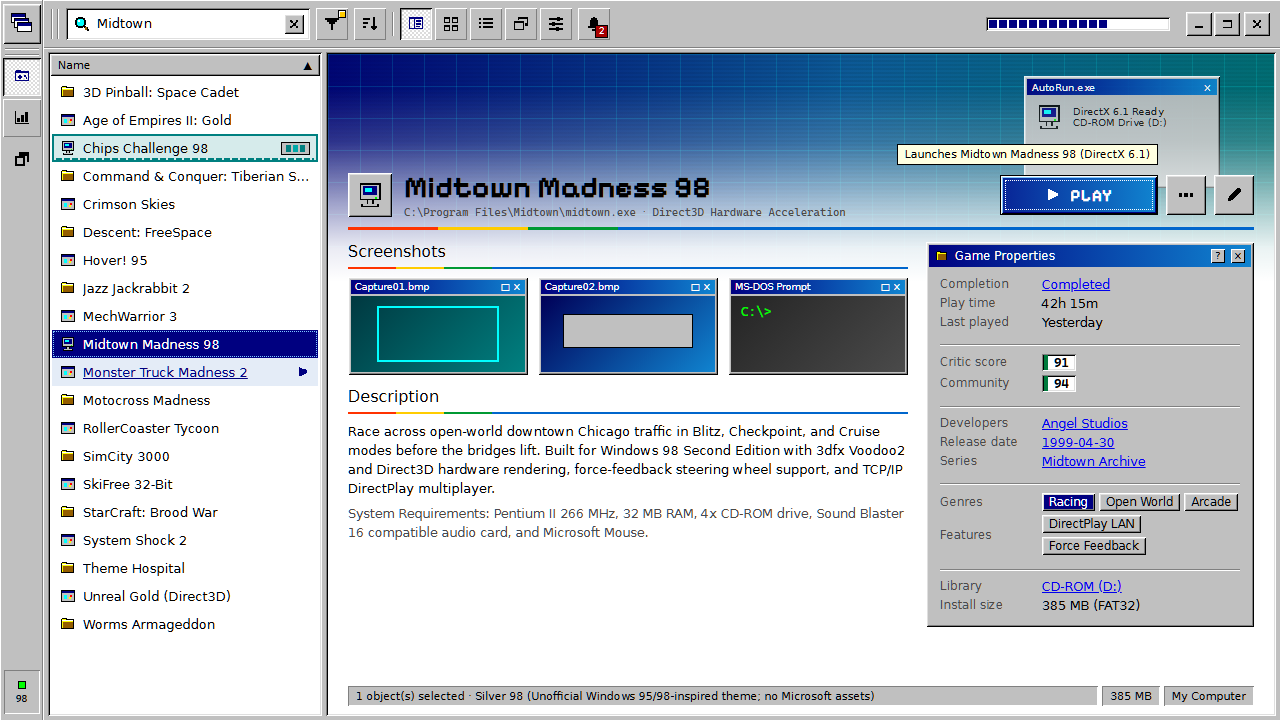
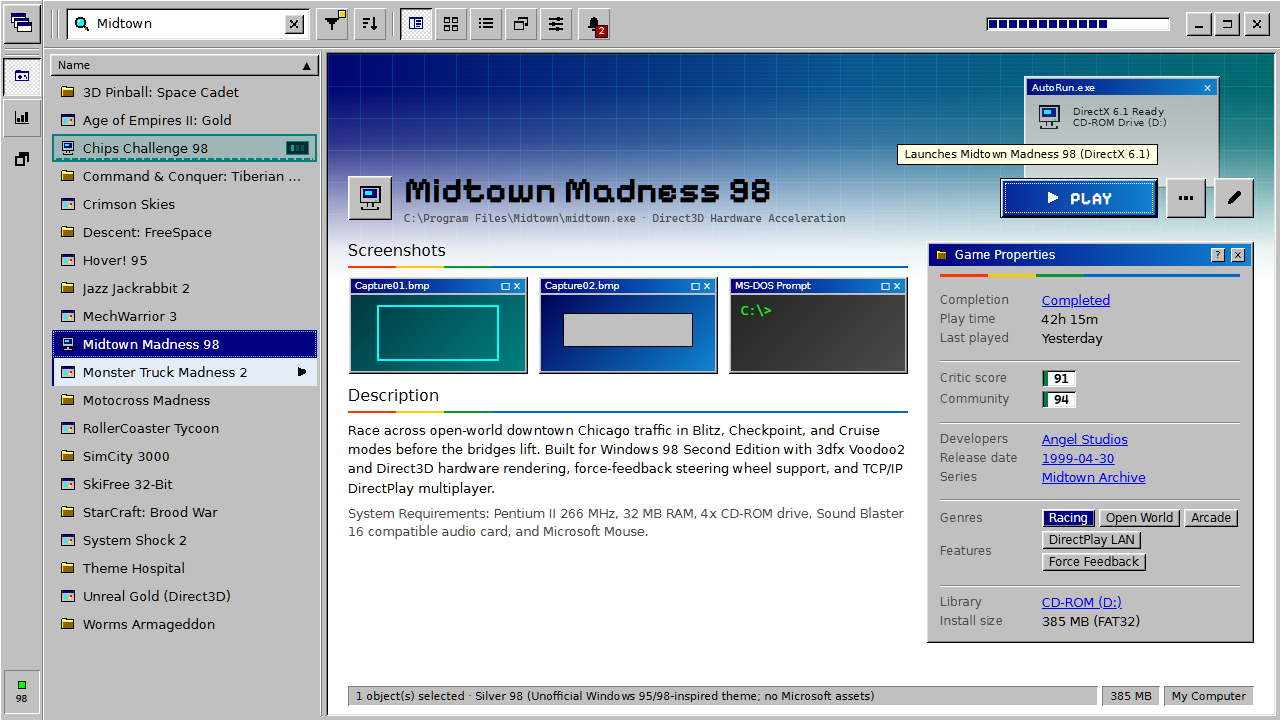
Release Silver 98 0.1.0

Changed region(s): [[0.0312, 0.0611, 1.0, 1.0], [0.4375, 0.4889, 0.6875, 0.5194]]

diff --git a/src/themes/Silver98/src/Views/GridViewGameOverview.xaml b/src/themes/Silver98/src/Views/GridViewGameOverview.xaml
@@ -124,7 +124,7 @@
                                                 </Button>
                                                 <Image x:Name="PART_ImageIcon" MaxWidth="44" MaxHeight="44" Margin="0,0,14,0" DockPanel.Dock="Left" VerticalAlignment="Center" />
                                                 <StackPanel VerticalAlignment="Center">
-                                                    <TextBlock x:Name="PART_TextDisplayName" FontFamily="{DynamicResource HeadingFontFamily}" FontSize="{DynamicResource FontSizeLargest}"
+                                                    <TextBlock x:Name="PART_TextDisplayName" FontFamily="{DynamicResource HeadingFontFamily}" FontSize="36"
                                                                FontWeight="Bold" TextWrapping="Wrap">
                                                         <TextBlock.Style>
                                                             <Style TargetType="TextBlock" BasedOn="{StaticResource BaseTextBlockStyle}">
@@ -137,20 +137,6 @@
                                                             </Style>
                                                         </TextBlock.Style>
                                                     </TextBlock>
-                                                    <Control Template="{DynamicResource DividerTemplate}" Margin="0,5,0,0" Focusable="False" IsHitTestVisible="False">
-                                                        <Control.Style>
-                                                            <Style TargetType="Control">
-                                                                <Style.Triggers>
-                                                                    <DataTrigger Binding="{Binding Text, ElementName=PART_TextDisplayName}" Value="">
-                                                                        <Setter Property="Visibility" Value="Collapsed" />
-                                                                    </DataTrigger>
-                                                                    <DataTrigger Binding="{Binding Text, ElementName=PART_TextDisplayName}" Value="{x:Null}">
-                                                                        <Setter Property="Visibility" Value="Collapsed" />
-                                                                    </DataTrigger>
-                                                                </Style.Triggers>
-                                                            </Style>
-                                                        </Control.Style>
-                                                    </Control>
                                                 </StackPanel>
                                             </DockPanel>
                                             <StackPanel Orientation="Horizontal" Margin="0,14,0,0">
@@ -203,7 +189,7 @@
 
                                                             <!-- Sunken White Property Well -->
                                                             <Grid>
-                                                                <Border Background="{DynamicResource InputBackgroundBrush}" Padding="14,12,14,12">
+                                                                <Border Background="{DynamicResource LocalFaceBrush}" Padding="14,12,14,12">
                                                                     <StackPanel Tag="{DynamicResource GridDetailsPaneWidth}" HorizontalAlignment="Stretch" x:Name="GridMetadataContent">
 <StackPanel.Style><Style TargetType="StackPanel"><Setter Property="Width" Value="{DynamicResource GridDetailsPaneWidth}" /><Setter Property="MaxWidth" Value="{DynamicResource GridDetailsPaneWidth}" /><Style.Triggers><DataTrigger Binding="{Binding Tag, ElementName=GridOverviewBody}" Value="True"><Setter Property="Width" Value="NaN" /><Setter Property="MaxWidth" Value="Infinity" /></DataTrigger><DataTrigger Binding="{Binding Tag, ElementName=GridMetadataColumn}" Value="Center"><Setter Property="Width" Value="NaN" /><Setter Property="MaxWidth" Value="Infinity" /></DataTrigger><DataTrigger Binding="{Binding Tag, ElementName=GridMetadataColumn}" Value="Stretch"><Setter Property="Width" Value="NaN" /><Setter Property="MaxWidth" Value="Infinity" /></DataTrigger></Style.Triggers></Style></StackPanel.Style>
                                                                         <Control Template="{DynamicResource DividerTemplate}" Margin="0,0,0,10" Focusable="False" />

diff --git a/src/themes/Silver98/art/preview-details.html b/src/themes/Silver98/art/preview-details.html
@@ -353,16 +353,13 @@
     background: var(--w98-face);
   }
 
-  /* === DETAILS GAME LIST (Left Sunken 3D White Explorer Tree/List Well) === */
+  /* === DETAILS GAME LIST (Left #C0C0C0 Silver Face Explorer List over ContentBackgroundBrush) === */
   .game-list-frame {
     width: 274px;
     flex: none;
-    background: var(--w98-window);
-    box-shadow:
-      inset 1px 1px 0 var(--w98-bevel-shadow),
-      inset -1px -1px 0 var(--w98-bevel-highlight),
-      inset 2px 2px 0 var(--w98-bevel-dark),
-      inset -2px -2px 0 var(--w98-bevel-light);
+    background: var(--w98-face);
+    border-right: 1px solid var(--w98-bevel-shadow);
+    box-shadow: inset -1px 0 0 var(--w98-bevel-highlight);
     display: flex;
     flex-direction: column;
     padding: 2px;
@@ -413,16 +410,24 @@
     overflow: hidden;
     text-overflow: ellipsis;
   }
-  /* Hovered row: hot-track pale blue wash + underline */
+  /* Hovered row: hot-track pale blue wash + 2px Navy left tick, black text (DetailsViewItemStyle.xaml) */
   .game-row.hover {
     background: var(--w98-row-hover);
-    color: var(--w98-navy);
-    text-decoration: underline;
+    color: var(--w98-text);
+  }
+  .game-row.hover::before {
+    content: "";
+    position: absolute;
+    left: 0;
+    top: 0;
+    bottom: 0;
+    width: 2px;
+    background: var(--w98-navy);
   }
   .row-hover-play {
     width: 14px;
     height: 14px;
-    color: var(--w98-navy);
+    color: var(--w98-text);
   }
   /* Selected row: Classic Windows 95/98 var(--w98-navy) Navy Selection Bar + 1px White Dotted Focus Box */
   .game-row.selected {
@@ -456,17 +461,18 @@
     display: flex;
     align-items: center;
     gap: 2px;
-    padding: 2px 4px;
-    background: var(--w98-face);
-    border: 1px solid var(--w98-bevel-dark);
+    padding: 3px 4px;
+    background: var(--w98-teal-scrim);
+    border: 1px solid var(--w98-teal);
   }
   .running-pips i {
-    width: 5px;
-    height: 7px;
-    background: var(--w98-teal);
+    width: 3px;
+    height: 6px;
+    background: var(--w98-teal-hi);
+    opacity: 0.3;
     display: block;
   }
-  .running-pips i.hi { background: var(--w98-teal-hi); }
+  .running-pips i.hi { opacity: 1; }
 
   /* === GAME PAGE (Right Sunken 3D Explorer 4.0 Web View Document Pane) === */
   .game-page {
@@ -602,7 +608,7 @@
   }
   .game-title {
     font-family: "Pixelify Sans", "Tahoma", "Segoe UI";
-    font-size: 30px;
+    font-size: 36px;
     font-weight: 700;
     line-height: 1.05;
     color: var(--w98-text);
@@ -1063,7 +1069,7 @@
           <div class="game-row running">
             <svg class="row-ico" viewBox="0 0 16 16"><use href="#ico-computer"/></svg>
             <span class="game-row-title">Chips Challenge 98</span>
-            <span class="running-pips"><i></i><i class="hi"></i><i></i></span>
+            <span class="running-pips"><i class="hi"></i><i></i><i></i></span>
             <span class="running-foot"></span>
           </div>
           <div class="game-row"><svg class="row-ico" viewBox="0 0 16 16"><use href="#ico-folder"/></svg><span class="game-row-title">Command &amp; Conquer: Tiberian Sun</span></div>
@@ -1129,12 +1135,7 @@
             </div>
           </div>
 
-          <!-- Classic Windows 98 Explorer 4.0 Web View 4-Color Divider Bar -->
-          <div class="webview-4color-bar">
-            <span class="c-red"></span><span class="c-yel"></span><span class="c-grn"></span><span class="c-blu"></span>
-          </div>
-
-          <div class="body-cols">
+          <div class="body-cols" style="margin-top: 8px;">
             <div class="left-col">
               <div class="screens-head">Screenshots</div>
               <div class="screens-head-rule"><span class="c1"></span><span class="c2"></span><span class="c3"></span><span class="c4"></span></div>
@@ -1159,6 +1160,7 @@
                   <span class="meta-head-btn">×</span>
                 </div>
                 <div class="meta-body">
+                  <div class="webview-4color-bar" style="margin-bottom: 8px;"><span class="c-red" style="width: 48px;"></span><span class="c-yel" style="width: 48px;"></span><span class="c-grn" style="width: 48px;"></span><span class="c-blu"></span></div>
                   <div class="meta-group">
                     <div class="meta-row"><span class="meta-label">Completion</span><span class="meta-link">Completed</span></div>
                     <div class="meta-row"><span class="meta-label">Play time</span><span class="meta-val">42h 15m</span></div>

diff --git a/src/themes/Silver98/src/Views/DetailsViewGameOverview.xaml b/src/themes/Silver98/src/Views/DetailsViewGameOverview.xaml
@@ -108,7 +108,7 @@
                                     <DockPanel>
                                         <Image x:Name="PART_ImageIcon" MaxWidth="48" MaxHeight="48" Margin="0,0,14,0" DockPanel.Dock="Left" VerticalAlignment="Center" />
                                         <StackPanel VerticalAlignment="Center">
-                                            <TextBlock x:Name="PART_TextDisplayName" FontFamily="{DynamicResource HeadingFontFamily}" FontSize="{DynamicResource FontSizeLargest}"
+                                            <TextBlock x:Name="PART_TextDisplayName" FontFamily="{DynamicResource HeadingFontFamily}" FontSize="36"
                                                        FontWeight="Bold" TextWrapping="Wrap">
                                                 <TextBlock.Style>
                                                     <Style TargetType="TextBlock" BasedOn="{StaticResource BaseTextBlockStyle}">
@@ -121,20 +121,6 @@
                                                     </Style>
                                                 </TextBlock.Style>
                                             </TextBlock>
-                                            <Control Template="{DynamicResource DividerTemplate}" Margin="0,5,0,0" Focusable="False" IsHitTestVisible="False">
-                                                <Control.Style>
-                                                    <Style TargetType="Control">
-                                                        <Style.Triggers>
-                                                            <DataTrigger Binding="{Binding Text, ElementName=PART_TextDisplayName}" Value="">
-                                                                <Setter Property="Visibility" Value="Collapsed" />
-                                                            </DataTrigger>
-                                                            <DataTrigger Binding="{Binding Text, ElementName=PART_TextDisplayName}" Value="{x:Null}">
-                                                                <Setter Property="Visibility" Value="Collapsed" />
-                                                            </DataTrigger>
-                                                        </Style.Triggers>
-                                                    </Style>
-                                                </Control.Style>
-                                            </Control>
                                         </StackPanel>
                                     </DockPanel>
                                 </DockPanel>
@@ -174,7 +160,7 @@
 
                                                     <!-- Sunken White Property Well -->
                                                     <Grid>
-                                                        <Border Background="{DynamicResource InputBackgroundBrush}" Padding="14,12,14,12">
+                                                        <Border Background="{DynamicResource LocalFaceBrush}" Padding="14,12,14,12">
                                                             <StackPanel Tag="{DynamicResource GameDetailsPaneWidth}" HorizontalAlignment="Stretch" x:Name="DetailsMetadataContent">
 <StackPanel.Style><Style TargetType="StackPanel"><Setter Property="Width" Value="{DynamicResource GameDetailsPaneWidth}" /><Setter Property="MaxWidth" Value="{DynamicResource GameDetailsPaneWidth}" /><Style.Triggers><DataTrigger Binding="{Binding Tag, ElementName=DetailsOverviewBody}" Value="True"><Setter Property="Width" Value="NaN" /><Setter Property="MaxWidth" Value="Infinity" /></DataTrigger><DataTrigger Binding="{Binding Tag, ElementName=DetailsMetadataColumn}" Value="Center"><Setter Property="Width" Value="NaN" /><Setter Property="MaxWidth" Value="Infinity" /></DataTrigger><DataTrigger Binding="{Binding Tag, ElementName=DetailsMetadataColumn}" Value="Stretch"><Setter Property="Width" Value="NaN" /><Setter Property="MaxWidth" Value="Infinity" /></DataTrigger></Style.Triggers></Style></StackPanel.Style>
                                                                 <Control Template="{DynamicResource DividerTemplate}" Margin="0,0,0,10" Focusable="False" />

diff --git a/src/themes/Silver98/src/Views/Library.xaml b/src/themes/Silver98/src/Views/Library.xaml
@@ -47,7 +47,7 @@
                                     </Style.Triggers>
                                 </Style>
                             </Grid.Style>
-                            <Border x:Name="WindowArtSwatch" Background="{DynamicResource ContentBackgroundBrush}" Visibility="Collapsed" />
+                            <Border x:Name="WindowArtSwatch" Background="{DynamicResource GameOverviewBackgroundBrush}" Visibility="Collapsed" />
                             <Grid Grid.Row="0" Grid.Column="0" Grid.RowSpan="2" VerticalAlignment="Top" IsHitTestVisible="False">
                                 <FadeImage x:Name="PART_ImageBackground" VerticalAlignment="Top" HorizontalAlignment="Center" />
                                 <Rectangle>

diff --git a/src/themes/Silver98/src/Constants.template.xaml b/src/themes/Silver98/src/Constants.template.xaml
@@ -85,7 +85,7 @@
     <!-- Shell, Chrome & Game Page Brushes -->
     <SolidColorBrush x:Key="ShellBackgroundBrush" Color="{{w98-face}}" />
     <SolidColorBrush x:Key="TopPanelBackgroundBrush" Color="{{w98-face}}" />
-    <SolidColorBrush x:Key="ContentBackgroundBrush" Color="{{w98-window}}" />
+    <SolidColorBrush x:Key="ContentBackgroundBrush" Color="{{w98-face}}" />
     <SolidColorBrush x:Key="GameOverviewBackgroundBrush" Color="{{w98-window}}" />
     <!-- Banner darkening color: classic Win32 #C0C0C0 silver face so darkened banner blends into the shell -->
     <SolidColorBrush x:Key="GameBannerTintBrush" Color="{{w98-face}}" />

diff --git a/src/themes/Silver98/art/preview-settings.html b/src/themes/Silver98/art/preview-settings.html
@@ -207,7 +207,6 @@
   .tree-row.hover {
     background: var(--w98-row-hover);
     color: var(--w98-navy);
-    text-decoration: underline;
   }
   .tree-row.selected {
     background: var(--w98-navy);

diff --git a/src/themes/Silver98/README.md b/src/themes/Silver98/README.md
@@ -6,7 +6,7 @@
 
 **Unofficial light retro desktop theme inspired by Microsoft Windows 95 and Windows 98 classic 3D silver chrome, navy title bars, Explorer 4.0 Web View, and 16-color VGA pixel icons.**
 
-_Not released yet._
+**[Download Silver 98 0.1.0](https://github.com/danitesler/playnite-extensions/releases/tag/silver98-v0.1.0)**
 
 ## Screenshots
 
@@ -32,7 +32,7 @@ Unofficial community theme; not affiliated with or endorsed by Microsoft Corpora
 ## Details
 
 - **Type:** Theme (Desktop mode)
-- **Latest release:** not released yet
+- **Latest release:** [0.1.0](https://github.com/danitesler/playnite-extensions/releases/tag/silver98-v0.1.0)
 - **Playnite theme API:** 2.9.0
 - **Tags:** Light, Retro, Pixel, Windows98, Desktop
 - **Source:** [src/themes/Silver98](https://github.com/danitesler/playnite-extensions/tree/main/src/themes/Silver98)
